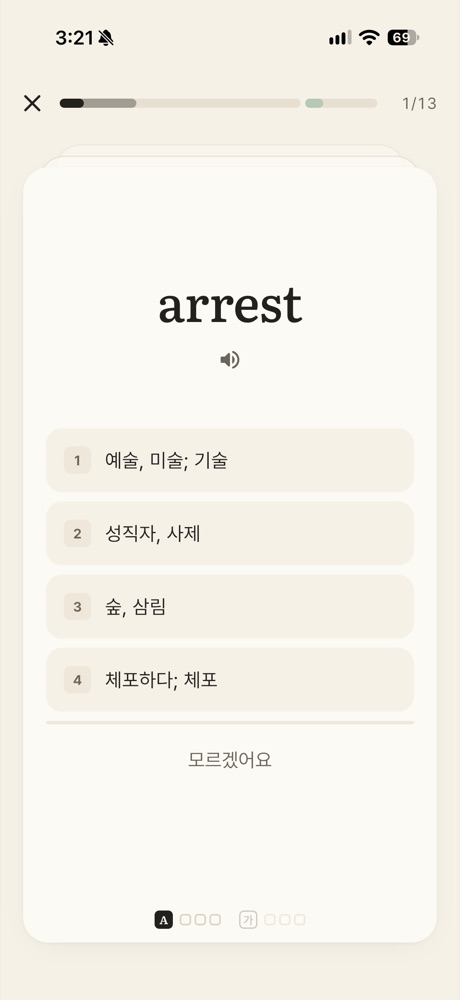
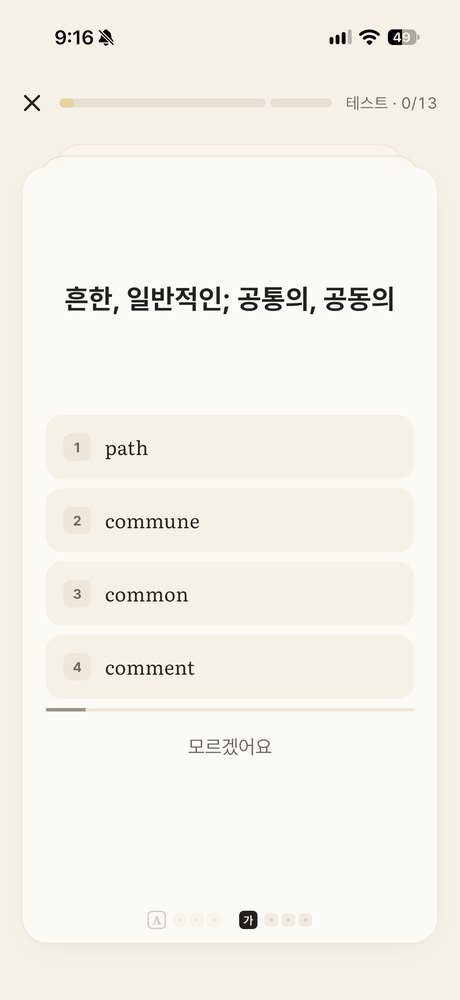
1.1.0: 새 화면 사진(캡슐 머신 추가) · 조각 표현 · 무음 모드 안내

diff --git a/docs/index.html b/docs/index.html
@@ -4,7 +4,7 @@
   <meta charset="UTF-8">
   <meta name="viewport" content="width=device-width, initial-scale=1.0">
   <title>단숙이 · 고객 지원 및 개인정보 처리방침</title>
-  <meta name="description" content="단숙이: 수능 영단어 · 숙어를 플래시카드로 보고, 4초 안에 맞히며, 외울 때마다 픽셀 키링을 채우는 iPhone 앱.">
+  <meta name="description" content="단숙이: 수능 영단어 · 숙어를 플래시카드로 보고, 4초 안에 맞히며, 외울 때마다 키링에 조각을 하나씩 끼우는 iPhone 앱.">
   <link rel="icon" href="icon.png">
   <link rel="apple-touch-icon" href="icon.png">
   <link rel="stylesheet" href="https://cdn.jsdelivr.net/gh/orioncactus/pretendard@v1.3.9/dist/web/static/pretendard.min.css">
@@ -206,18 +206,19 @@
           <div class="step">
             <div class="n">03</div>
             <div class="t">키링을 채워요</div>
-            <div class="d">외울 때마다 픽셀이 하나씩. 144개를 외우면 키링이 완성돼요.</div>
+            <div class="d">외울 때마다 조각이 하나씩. 144개를 외우면 키링이 완성돼요.</div>
           </div>
         </div>
 
         <div class="shots" aria-label="앱 화면">
           <figure><img src="home.jpg" alt="오늘 탭: 칠하는 중인 키링과 오늘의 공부" loading="lazy"><figcaption>오늘의 공부</figcaption></figure>
-          <figure><img src="flash.jpg" alt="새 단어 플래시카드: arrest 체포하다" loading="lazy"><figcaption>새 단어는 카드로 먼저</figcaption></figure>
-          <figure><img src="quiz.jpg" alt="4초 문제: arrest의 뜻 고르기" loading="lazy"><figcaption>4초 안에 맞히기</figcaption></figure>
-          <figure><img src="answer.jpg" alt="틀렸을 때 정답과 예문" loading="lazy"><figcaption>틀리면 정답과 예문</figcaption></figure>
-          <figure><img src="summary.jpg" alt="학습 끝: 키링 94 / 144" loading="lazy"><figcaption>외운 만큼 한 조각씩</figcaption></figure>
-          <figure><img src="complete.jpg" alt="강아지 키링 완성 축하" loading="lazy"><figcaption>144개면 키링 완성</figcaption></figure>
-          <figure><img src="keyrings.jpg" alt="내 키링: 단풍 가지 카드에 달린 키링 5개" loading="lazy"><figcaption>내 키링 카드</figcaption></figure>
+          <figure><img src="flash.jpg" alt="새 단어 플래시카드: common 흔한, 일반적인" loading="lazy"><figcaption>새 단어는 카드로 먼저</figcaption></figure>
+          <figure><img src="quiz.jpg" alt="4초 문제: 흔한, 일반적인의 영어 고르기" loading="lazy"><figcaption>4초 안에 맞히기</figcaption></figure>
+          <figure><img src="answer.jpg" alt="틀렸을 때 정답과 예문: compare 비교하다" loading="lazy"><figcaption>틀리면 정답과 예문</figcaption></figure>
+          <figure><img src="summary.jpg" alt="학습 끝: 키링 131 / 144" loading="lazy"><figcaption>외운 만큼 한 조각씩</figcaption></figure>
+          <figure><img src="complete.jpg" alt="탕후루 키링 완성 축하" loading="lazy"><figcaption>144개면 키링 완성</figcaption></figure>
+          <figure><img src="capsule.jpg" alt="단숙이 판 캡슐 머신" loading="lazy"><figcaption>캡슐 머신으로 다음 그림</figcaption></figure>
+          <figure><img src="keyrings.jpg" alt="내 키링: 사물함 카드에 달린 키링" loading="lazy"><figcaption>내 키링 카드</figcaption></figure>
           <figure><img src="stats.jpg" alt="기록: 공부한 날과 외운 단어" loading="lazy"><figcaption>공부 기록</figcaption></figure>
         </div>
         <p class="hint">옆으로 넘겨 보세요 →</p>
@@ -247,7 +248,7 @@
         </details>
         <details>
           <summary>키링은 어떻게 모아요?</summary>
-          <div><p>캡슐 머신에서 뽑은 키링이 단어를 외울 때마다 한 조각씩 드러나요. <strong>144개</strong>를 외우면 키링이 완성되고, <strong>내 키링</strong> 탭의 카드에 하나씩 달려요. 카드가 다 차면 새 오브제 카드가 열려요. 키링은 돈이 아니라 공부로만 뽑아요.</p></div>
+          <div><p>캡슐 머신 손잡이를 두세 바퀴 돌려 키링 도안을 뽑아요. 단어를 외울 때마다 판에 조각이 하나씩 끼워지며 그림이 드러나요. <strong>144개</strong>를 외우면 키링이 완성되고, <strong>내 키링</strong> 탭의 카드에 하나씩 달려요. 카드마다 그 물건다운 테두리가 있고, 다 차면 새 오브제 카드가 열려요. 키링은 돈이 아니라 공부로만 뽑아요.</p></div>
         </details>
         <details>
           <summary>앱을 지웠다가 다시 깔면 기록이 사라지나요?</summary>
@@ -268,7 +269,7 @@
 
         <h3 style="margin-top:32px">문제 해결</h3>
         <ul class="list">
-          <li><strong>발음이 들리지 않아요:</strong> iPhone이 무음 모드면 소리가 나지 않아요. 문제 화면의 스피커에 무음 표시가 보이면 옆 버튼으로 무음을 꺼 주세요.</li>
+          <li><strong>발음이 들리지 않아요:</strong> 단숙이 발음은 무음 모드여도 나와요. 그래도 안 들리면 음량이 0인지, 블루투스 이어폰에 연결돼 있는지 확인해 주세요. 설정에서 '발음 자동 재생'이 꺼져 있어도 단어 옆 스피커를 누르면 들을 수 있어요.</li>
           <li><strong>발음이 처음에 조금 늦어요:</strong> 기기 안에서 목소리를 만드느라 그래요. 한 번 만든 소리는 저장돼서 다음부터는 바로 나와요.</li>
           <li><strong>iCloud 저장이 안 된대요:</strong> 설정 앱에서 Apple 계정에 로그인되어 있고 iCloud가 켜져 있는지 확인해 주세요. 인터넷이 연결되면 다음에 앱을 닫을 때 다시 저장해요.</li>
           <li><strong>위젯에 단어가 안 보여요:</strong> 앱을 한 번 열면 위젯이 새로 그려져요.</li>
